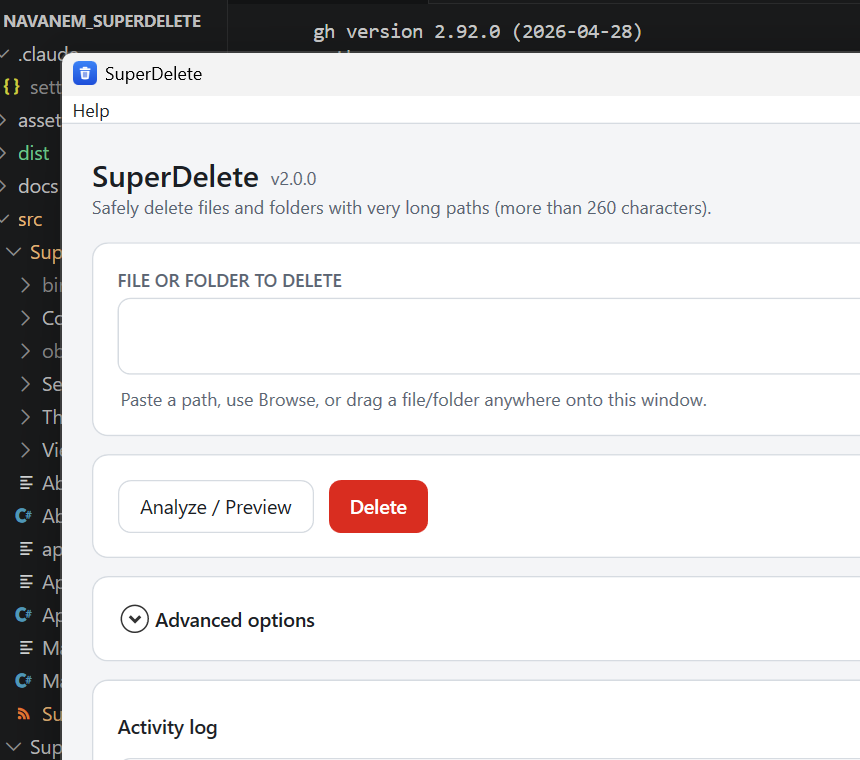
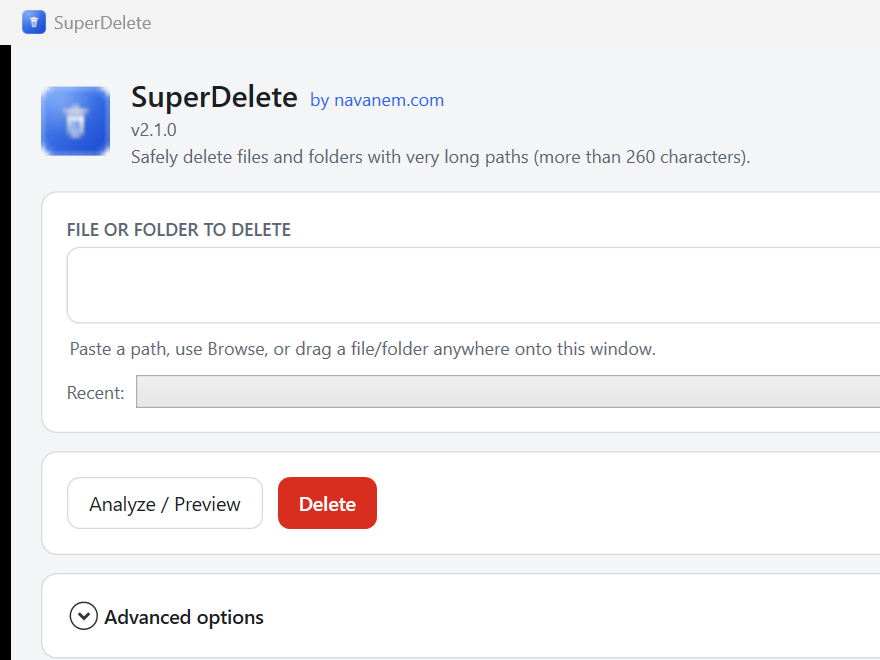
fix(ui): make the status bar visible and simplify the window layout
The status bar was invisible because its background/colour came through a
converter whose resource lookup silently failed, painting it transparent.
Replace the converter with direct DynamicResource brushes and a DataTrigger
for the status dot.

Also restructure the window to a single Grid (Auto / * / Auto / Auto) with
the main content in the scrolling star row and the activity log + status bar
pinned at the bottom (matching the proven RoboSync layout), and replace the
menu bar with an 'About' button in the header.

Changed region(s): [[0.0, 0.0, 1.0, 1.0], [0.3628, 0.1212, 0.514, 0.1818]]

diff --git a/src/SuperDelete.App/MainWindow.xaml b/src/SuperDelete.App/MainWindow.xaml
@@ -4,8 +4,9 @@
         xmlns:conv="clr-namespace:SuperDelete.App.Converters"
         Title="SuperDelete"
         Icon="superdelete.ico"
-        Height="820" Width="860"
-        MinHeight="640" MinWidth="680"
+        Height="820" Width="880"
+        MinHeight="620" MinWidth="700"
+        WindowStartupLocation="CenterScreen"
         AllowDrop="True"
         DragOver="Window_DragOver"
         Drop="Window_Drop"
@@ -15,39 +16,21 @@
 
     <Window.Resources>
         <conv:BoolToVisibilityConverter x:Key="BoolToVis" />
-        <conv:StatusToBrushConverter x:Key="StatusToBrush" />
     </Window.Resources>
 
-    <DockPanel>
-
-        <!-- Menu bar -->
-        <Menu DockPanel.Dock="Top"
-              Background="{DynamicResource CardBackgroundBrush}"
-              Foreground="{DynamicResource ForegroundBrush}"
-              BorderBrush="{DynamicResource BorderBrush}" BorderThickness="0,0,0,1">
-            <MenuItem Header="_Help">
-                <MenuItem Header="_About SuperDelete…" Command="{Binding AboutCommand}" />
-            </MenuItem>
-        </Menu>
-
+    <!-- Window content is a single Grid (Auto / * / Auto / Auto): the main content fills and scrolls,
+         while the activity log and status bar stay pinned and always visible at the bottom. -->
     <Grid Margin="20">
         <Grid.RowDefinitions>
             <RowDefinition Height="Auto" />
-            <!-- Top content scrolls within its share; the log fills the rest; the status bar stays
-                 pinned and visible (it was being pushed off-screen when row 1 was Auto). -->
-            <RowDefinition Height="2*" MinHeight="180" />
-            <RowDefinition Height="1*" MinHeight="120" />
+            <RowDefinition Height="*" />
+            <RowDefinition Height="Auto" />
             <RowDefinition Height="Auto" />
         </Grid.RowDefinitions>
 
         <!-- ============ Header ============ -->
-        <DockPanel Grid.Row="0" Margin="0,0,0,16">
-            <CheckBox DockPanel.Dock="Right"
-                      Content="Dark mode"
-                      VerticalAlignment="Top"
-                      Foreground="{DynamicResource SubtleForegroundBrush}"
-                      IsChecked="{Binding IsDarkMode}" />
-            <StackPanel Orientation="Horizontal">
+        <Grid Grid.Row="0" Margin="0,0,0,16">
+            <StackPanel Orientation="Horizontal" HorizontalAlignment="Left">
                 <Image Source="superdelete.ico" Width="46" Height="46"
                        VerticalAlignment="Center" Margin="0,0,14,0"
                        RenderOptions.BitmapScalingMode="HighQuality" />
@@ -67,13 +50,20 @@
                                Text="Safely delete files and folders with very long paths (more than 260 characters)." />
                 </StackPanel>
             </StackPanel>
-        </DockPanel>
+            <StackPanel Orientation="Horizontal" HorizontalAlignment="Right" VerticalAlignment="Center">
+                <CheckBox Content="Dark mode" VerticalAlignment="Center"
+                          Foreground="{DynamicResource SubtleForegroundBrush}"
+                          IsChecked="{Binding IsDarkMode}" />
+                <Button Content="About" Style="{StaticResource BaseButton}" Padding="14,7" Margin="14,0,0,0"
+                        Command="{Binding AboutCommand}" />
+            </StackPanel>
+        </Grid>
 
-        <!-- ============ Top content (path, actions, summary, options) ============ -->
-        <ScrollViewer Grid.Row="1" VerticalScrollBarVisibility="Auto" Margin="0,0,0,12">
+        <!-- ============ Main content (fills the row, scrolls if needed) ============ -->
+        <ScrollViewer Grid.Row="1" VerticalScrollBarVisibility="Auto" Margin="0,0,0,12" Padding="0,0,4,0">
             <StackPanel>
 
-                <!--Path card-->
+                <!-- Path card -->
                 <Border Style="{StaticResource Card}" Margin="0,0,0,12">
                     <StackPanel>
                         <TextBlock Text="FILE OR FOLDER TO DELETE" Style="{StaticResource LabelText}" />
@@ -115,7 +105,7 @@
                     </StackPanel>
                 </Border>
 
-                <!--Action buttons + live progress-->
+                <!-- Action buttons + live progress -->
                 <Border Style="{StaticResource Card}" Margin="0,0,0,12">
                     <StackPanel>
                         <StackPanel Orientation="Horizontal">
@@ -131,7 +121,6 @@
                                     Visibility="{Binding IsBusy, Converter={StaticResource BoolToVis}}" />
                         </StackPanel>
 
-                        <!-- Live progress -->
                         <StackPanel Margin="0,12,0,0"
                                     Visibility="{Binding IsBusy, Converter={StaticResource BoolToVis}}">
                             <ProgressBar Height="6" Minimum="0" Maximum="100"
@@ -155,7 +144,7 @@
                     </StackPanel>
                 </Border>
 
-                <!--Summary card (after Analyze)-->
+                <!-- Summary card (after Analyze) -->
                 <Border Style="{StaticResource Card}" Margin="0,0,0,12"
                         Visibility="{Binding HasAnalysis, Converter={StaticResource BoolToVis}}">
                     <StackPanel>
@@ -185,7 +174,6 @@
                             <TextBlock Grid.Row="3" Grid.Column="1" Text="{Binding SummaryItems}" Margin="0,3" />
                         </Grid>
 
-                        <!-- Access issue note -->
                         <Border Margin="0,10,0,0" CornerRadius="8" Padding="10"
                                 Background="{DynamicResource WarningBackgroundBrush}"
                                 Visibility="{Binding HasAccessIssues, Converter={StaticResource BoolToVis}}">
@@ -193,7 +181,6 @@
                                        Foreground="{DynamicResource WarningBrush}" />
                         </Border>
 
-                        <!-- Recursive deletion warning -->
                         <Border Margin="0,10,0,0" CornerRadius="8" Padding="10"
                                 Background="{DynamicResource ErrorBackgroundBrush}"
                                 Visibility="{Binding ShowRecursiveWarning, Converter={StaticResource BoolToVis}}">
@@ -208,7 +195,7 @@
                     </StackPanel>
                 </Border>
 
-                <!--Advanced options-->
+                <!-- Advanced options -->
                 <Border Style="{StaticResource Card}">
                     <StackPanel>
                         <Expander IsExpanded="False" Foreground="{DynamicResource ForegroundBrush}">
@@ -226,7 +213,6 @@
                                           IsChecked="{Binding ShowDiagnostics}"
                                           Content="Show diagnostic details (stack traces) when something fails" />
 
-                                <!-- Bypass ACL active indicator -->
                                 <Border Margin="0,10,0,0" CornerRadius="8" Padding="10,6"
                                         HorizontalAlignment="Left"
                                         Background="{DynamicResource WarningBackgroundBrush}"
@@ -246,12 +232,11 @@
         </ScrollViewer>
 
         <!-- ============ Activity log ============ -->
-        <Border Grid.Row="2" Style="{StaticResource Card}" Margin="0,0,0,12">
+        <Border Grid.Row="2" Style="{StaticResource Card}" Height="150" Margin="0,0,0,12">
             <Grid>
                 <Grid.RowDefinitions>
                     <RowDefinition Height="Auto" />
                     <RowDefinition Height="*" />
-                    <RowDefinition Height="Auto" />
                 </Grid.RowDefinitions>
 
                 <Grid Grid.Row="0" Margin="0,0,0,8">
@@ -278,40 +263,38 @@
                              HorizontalScrollBarVisibility="Auto"
                              TextChanged="LogBox_TextChanged" />
                 </Border>
-
-                <!-- Collapsible technical details -->
-                <Expander Grid.Row="2" Margin="0,10,0,0"
-                          IsExpanded="{Binding ShowDiagnostics}"
-                          Foreground="{DynamicResource SubtleForegroundBrush}"
-                          Visibility="{Binding HasDiagnostics, Converter={StaticResource BoolToVis}}">
-                    <Expander.Header>
-                        <TextBlock Text="Technical details" Style="{StaticResource SubtleText}" />
-                    </Expander.Header>
-                    <Border CornerRadius="8" Margin="0,8,0,0" Padding="10"
-                            Background="{DynamicResource InputBackgroundBrush}"
-                            BorderThickness="1" BorderBrush="{DynamicResource BorderBrush}">
-                        <TextBox Text="{Binding DiagnosticDetails, Mode=OneWay}"
-                                 IsReadOnly="True" Background="Transparent" BorderThickness="0"
-                                 Foreground="{DynamicResource SubtleForegroundBrush}"
-                                 FontFamily="Consolas, Cascadia Mono, Courier New" FontSize="11"
-                                 TextWrapping="Wrap" MaxHeight="160"
-                                 VerticalScrollBarVisibility="Auto" />
-                    </Border>
-                </Expander>
             </Grid>
         </Border>
 
         <!-- ============ Status bar ============ -->
-        <Border Grid.Row="3" CornerRadius="8" Padding="12,8"
-                Background="{Binding Status, Converter={StaticResource StatusToBrush}, ConverterParameter=background}">
-            <StackPanel Orientation="Horizontal">
-                <Ellipse Width="10" Height="10" VerticalAlignment="Center" Margin="0,0,8,0"
-                         Fill="{Binding Status, Converter={StaticResource StatusToBrush}, ConverterParameter=foreground}" />
+        <Border Grid.Row="3" CornerRadius="8" Padding="12,8" MinHeight="40"
+                BorderBrush="{DynamicResource BorderBrush}" BorderThickness="1"
+                Background="{DynamicResource CardBackgroundBrush}">
+            <StackPanel Orientation="Horizontal" VerticalAlignment="Center">
+                <Ellipse Width="10" Height="10" VerticalAlignment="Center" Margin="0,0,8,0">
+                    <Ellipse.Style>
+                        <Style TargetType="Ellipse">
+                            <Setter Property="Fill" Value="{DynamicResource SubtleForegroundBrush}" />
+                            <Style.Triggers>
+                                <DataTrigger Binding="{Binding Status}" Value="Info">
+                                    <Setter Property="Fill" Value="{DynamicResource AccentBrush}" />
+                                </DataTrigger>
+                                <DataTrigger Binding="{Binding Status}" Value="Success">
+                                    <Setter Property="Fill" Value="{DynamicResource SuccessBrush}" />
+                                </DataTrigger>
+                                <DataTrigger Binding="{Binding Status}" Value="Warning">
+                                    <Setter Property="Fill" Value="{DynamicResource WarningBrush}" />
+                                </DataTrigger>
+                                <DataTrigger Binding="{Binding Status}" Value="Error">
+                                    <Setter Property="Fill" Value="{DynamicResource DangerBrush}" />
+                                </DataTrigger>
+                            </Style.Triggers>
+                        </Style>
+                    </Ellipse.Style>
+                </Ellipse>
                 <TextBlock Text="{Binding StatusText}" VerticalAlignment="Center" FontWeight="SemiBold"
                            Foreground="{DynamicResource ForegroundBrush}" />
             </StackPanel>
         </Border>
     </Grid>
-
-    </DockPanel>
 </Window>